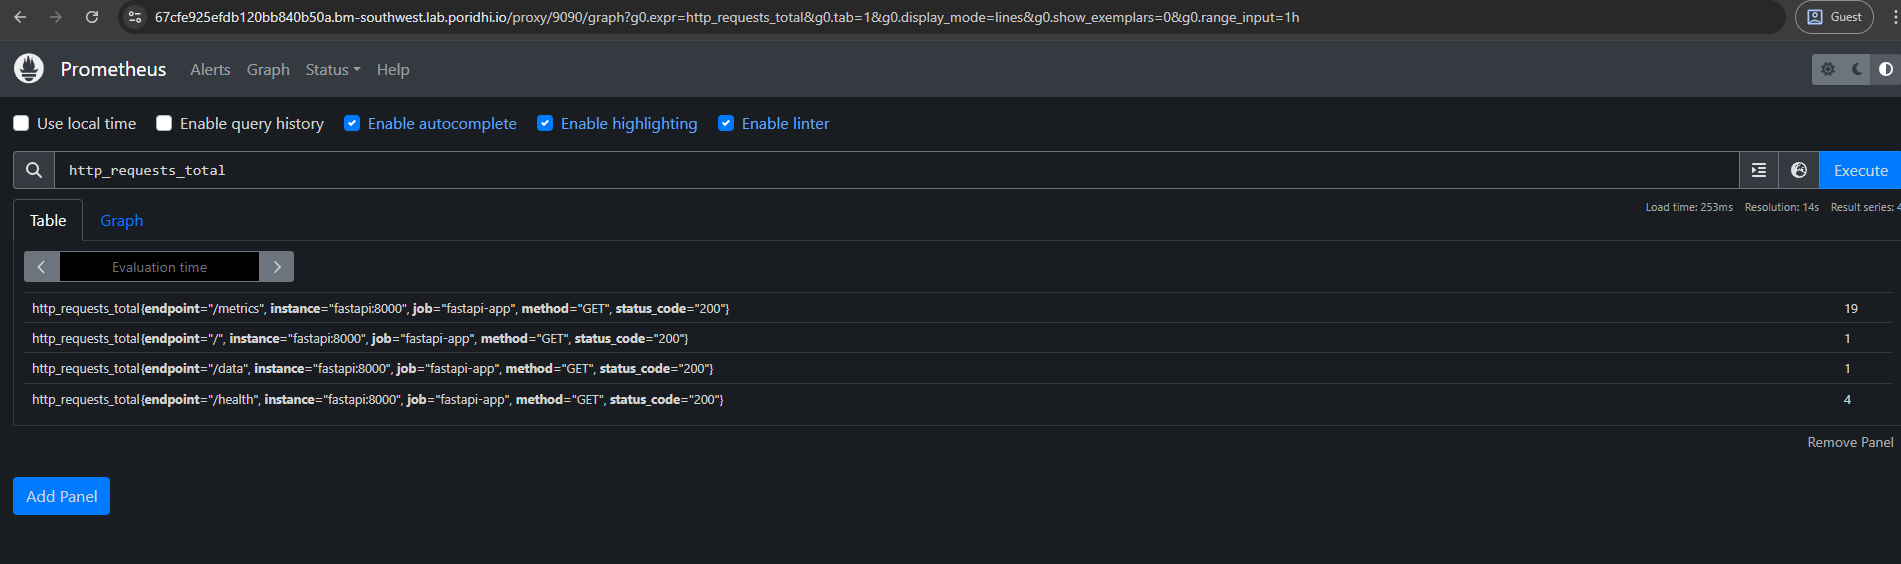
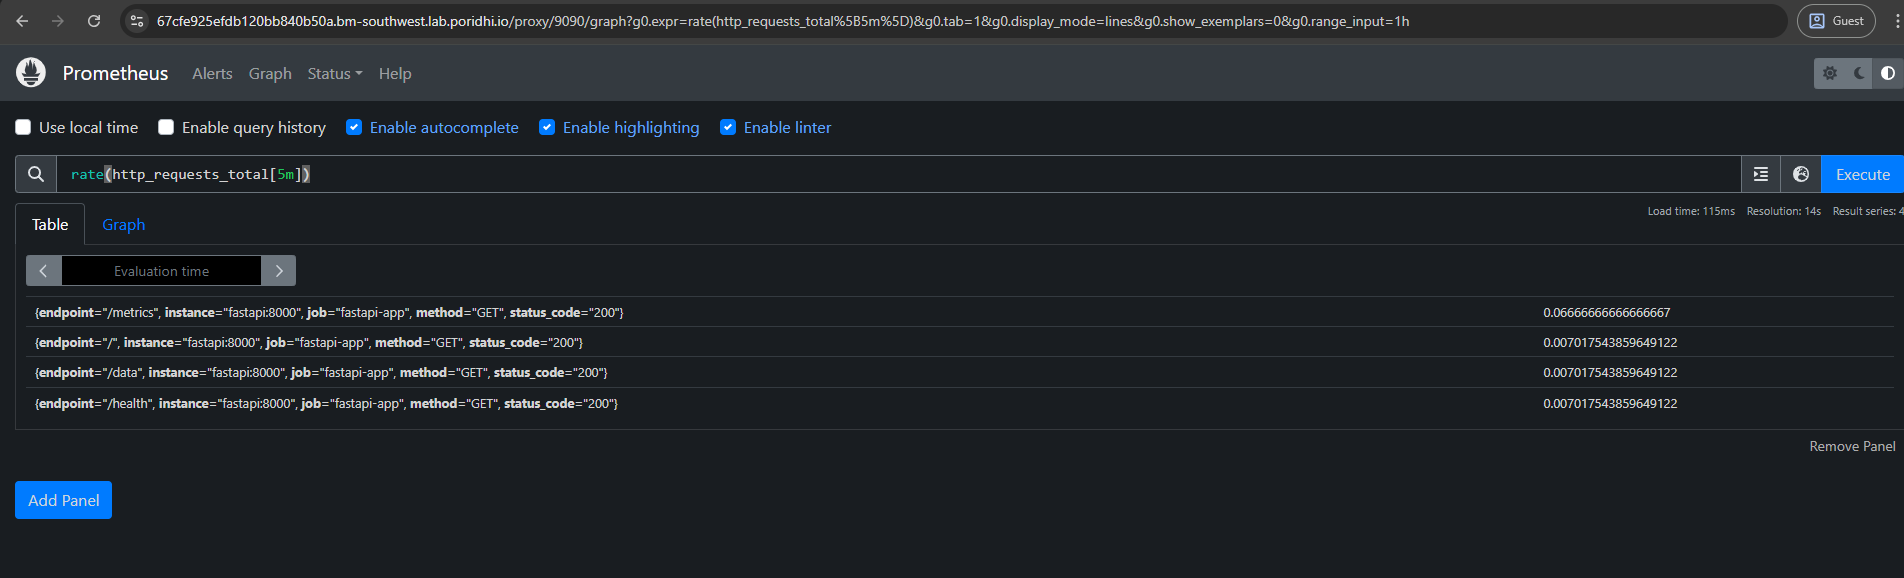
Request size and response size histograms added

diff --git a/middleware/metrics_middleware.py b/middleware/metrics_middleware.py
@@ -1,4 +1,4 @@
-from metrics.http_metrics import HTTP_REQUESTS_TOTAL, HTTP_REQUEST_DURATION_SECONDS
+from metrics.http_metrics import HTTP_REQUESTS_TOTAL, HTTP_REQUEST_DURATION_SECONDS, REQUEST_SIZE , RESPONSE_SIZE
 from starlette.middleware.base import BaseHTTPMiddleware
 from starlette.requests import Request
 import time
@@ -9,7 +9,20 @@ class MetricsMiddleware(BaseHTTPMiddleware):
         path = request.url.path
         start_time = time.perf_counter()
 
+        request_body = await request.body()
+        request_size = len(request_body)
+
         response = await call_next(request)
+
+        response_body = b""
+        async for chunk in response.body_iterator:
+            response_body += chunk
+
+        async def new_body_iterator():
+            yield response_body
+            
+        response.body_iterator = new_body_iterator()
+        response_size = len(response_body)
 
         duration = time.perf_counter() - start_time
         status_code = response.status_code
@@ -17,6 +30,8 @@ class MetricsMiddleware(BaseHTTPMiddleware):
         HTTP_REQUESTS_TOTAL.labels(method=method, endpoint=path, status_code=status_code).inc()
         HTTP_REQUEST_DURATION_SECONDS.labels(method=method, endpoint=path, status_code=status_code).observe(duration)
 
-        # HTTP_REQUEST_DURATION_SECONDS.labels(method=method, endpoint=path).observe(duration)
+        REQUEST_SIZE.labels(method=method, endpoint=path, status_code=status_code).observe(request_size)
+        RESPONSE_SIZE.labels(method=method, endpoint=path, status_code=status_code).observe(response_size)
+
 
         return response

diff --git a/metrics/http_metrics.py b/metrics/http_metrics.py
@@ -12,3 +12,17 @@ HTTP_REQUEST_DURATION_SECONDS = Histogram(
     ["method", "endpoint", "status_code"],
     buckets=[0.1, 0.3, 0.5, 1.0, 2.0, 5.0]
 )
+
+REQUEST_SIZE = Histogram(
+    'http_request_size_bytes',
+    'Size of HTTP requests in bytes',
+    ['method', 'endpoint', 'status_code'],
+    buckets=[100, 500, 1000, 5000, 10000, 50000, 100000]
+)
+
+RESPONSE_SIZE = Histogram(
+    'http_response_size_bytes',
+    'Size of HTTP responses in bytes',
+    ['method', 'endpoint', 'status_code'],
+    buckets=[100, 500, 1000, 5000, 10000, 50000, 100000]
+)

diff --git a/README.md b/README.md
@@ -3,7 +3,24 @@ To run the project:
 
 To check metrics 
 ### HTTP Application Metrics: 
+
 - **Request Volume Metrics**
 
-1. http_requests_total
+    1. `http_requests_total`
     ![alt text](image-1.png)
+
+    2. `http_requests_total{endpoint="/metrics",method="GET"}`
+    ![alt text](image.png)
+
+    3. Global request rate: `rate(http_requests_total[5m])`
+    ![alt text](image-1.png)
+
+    4. Per-endpoint request rates:  `sum(rate(http_requests_total[5m])) by (endpoint)`
+    ![alt text](image-2.png)
+
+- **Request Performance Metrics**
+    1. Histogram of request durations: `http_request_duration_seconds_bucket`
+    ![alt text](image-3.png)
+
+    2. 95th percentile latency:
+    ![alt text](image-4.png)
